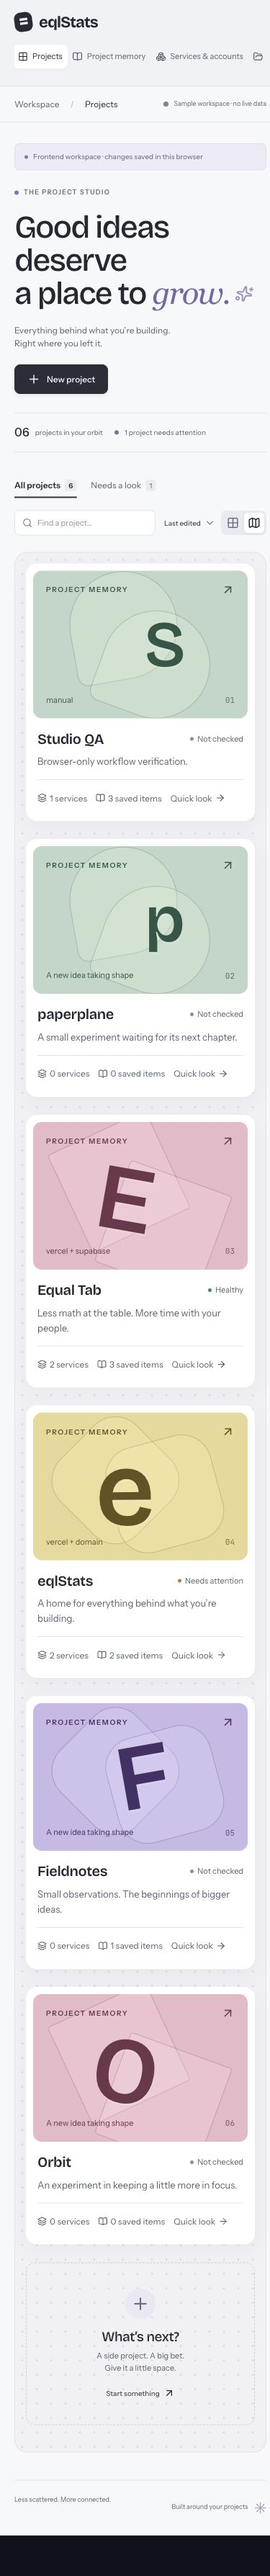
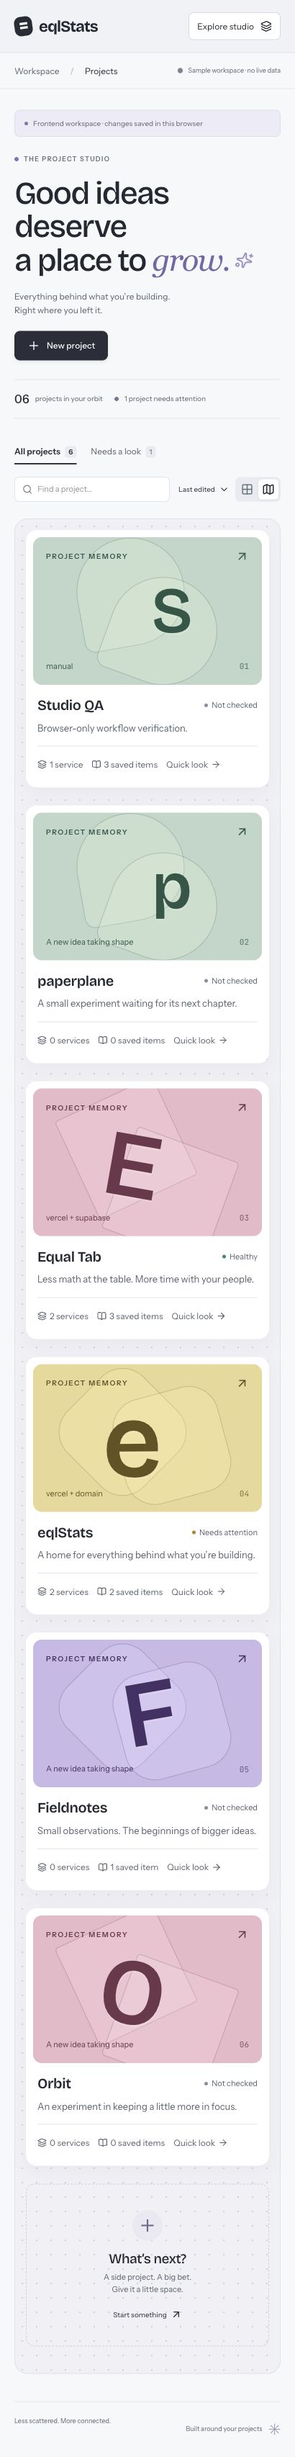
Record final responsive review and navigation verification

diff --git a/design-review/VALIDATION.md b/design-review/VALIDATION.md
@@ -29,3 +29,5 @@ Branch: rebuild/project-workspace-v2. Production build served locally on port 44
 - Reduced motion is implemented with MotionConfig and CSS media queries; an OS-level reduced-motion session was not exercised.
 - This is manual functional/responsive/keyboard verification, not a full axe audit or measured LCP/CLS/FPS benchmark.
 - Screenshots contain illustrative sample data and local test records.
+
+Final finishing pass: mobile Explore studio menu exposes all eight destinations and closes after selection; no phone overflow observed. Singular service/item counts corrected. Final production build and typecheck passed after these changes. Independent screenshot review: design 8.4, usability 7.8, creativity 8.0, content 8.1 before the final menu/count fixes; no blocking visual defects identified. No post-fix numerical score is claimed.
